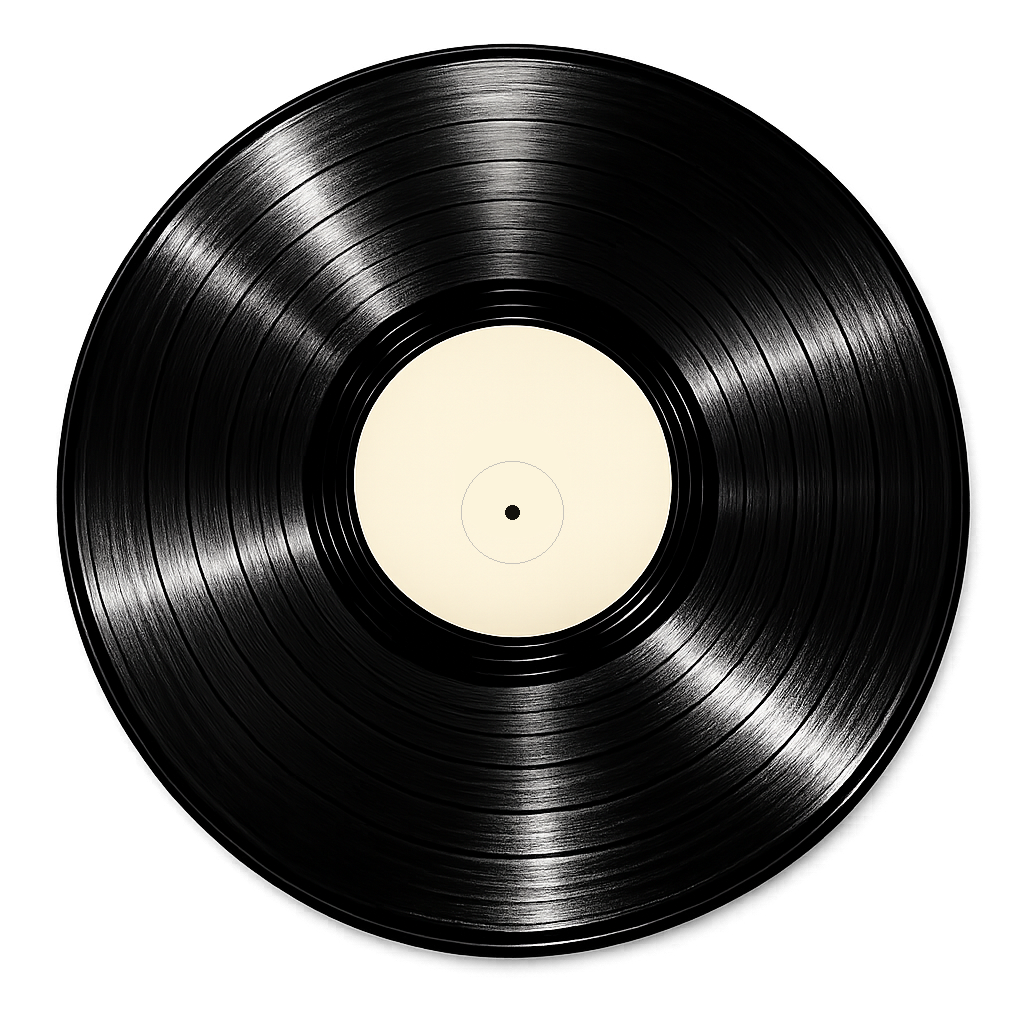
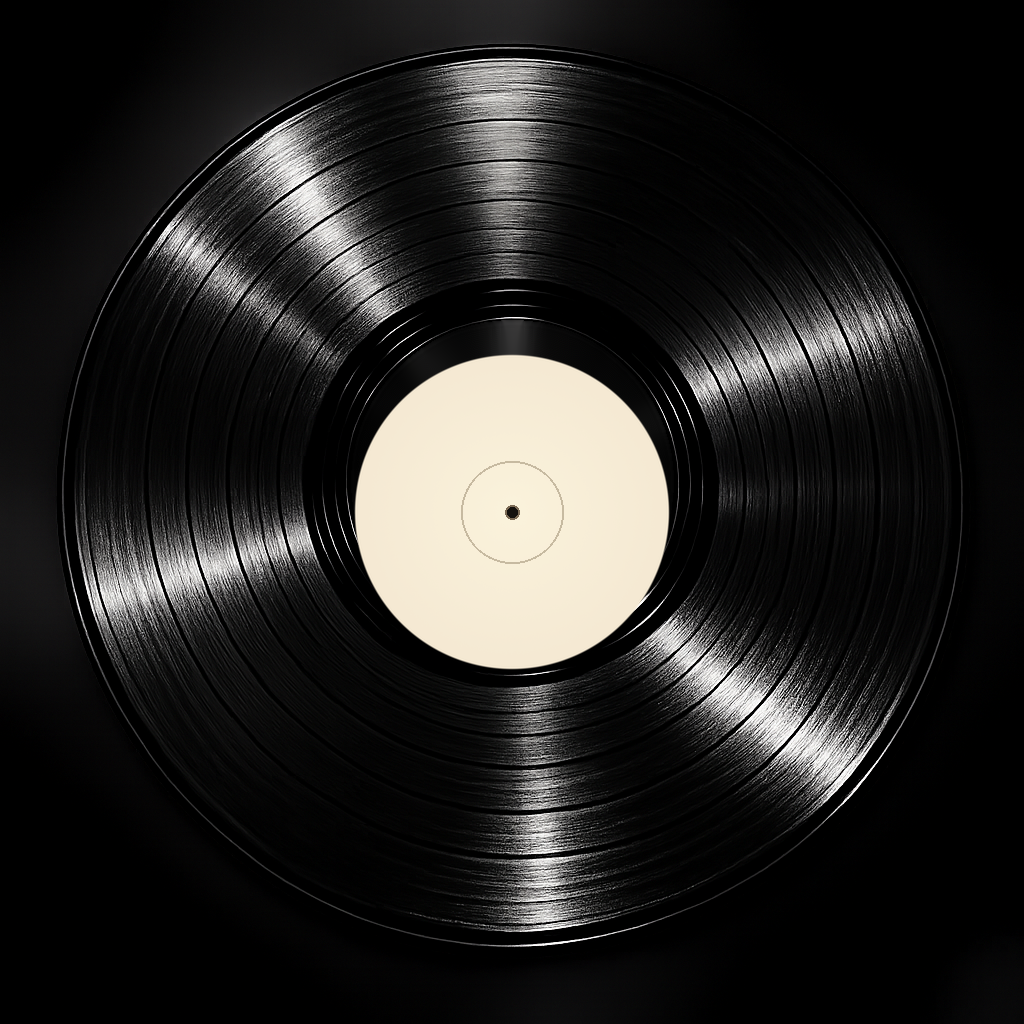
final touches 2

diff --git a/src/main.js b/src/main.js
@@ -76,7 +76,7 @@ let raycaster = new THREE.Raycaster();
 let pointerNdc = new THREE.Vector2();
 let spinVelocity = 0;
 let spinTarget = 0;
-const ARM_PARK_ANGLE = 1.0;
+const ARM_PARK_ANGLE = Math.PI * 2 - 2.8; // parks the stylus at the lower-right rest area, inside the plinth
 const ARM_PLAY_START_ANGLE = 2.9;
 const ARM_PLAY_END_ANGLE = 2.64;
 let armTarget = ARM_PARK_ANGLE;
